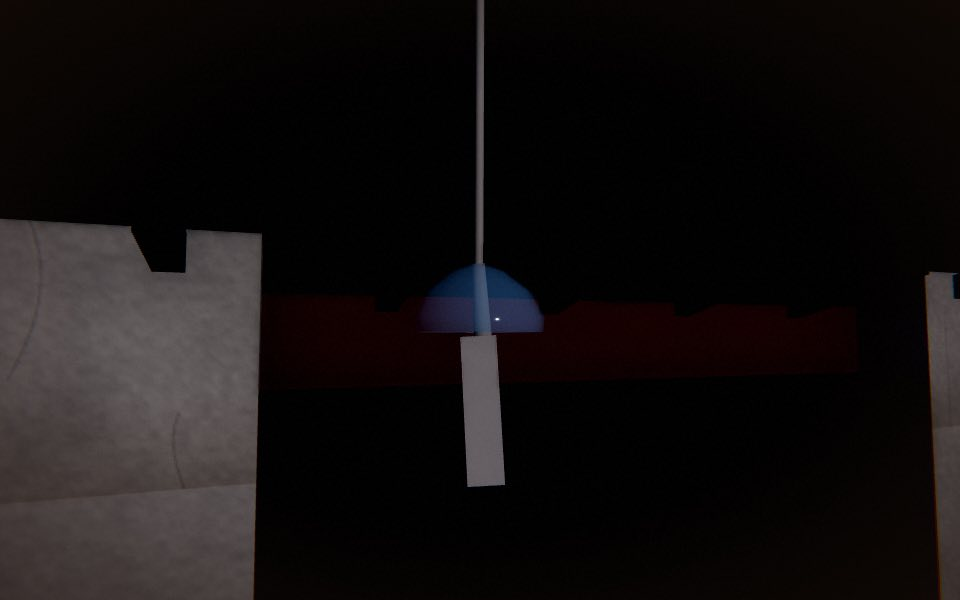
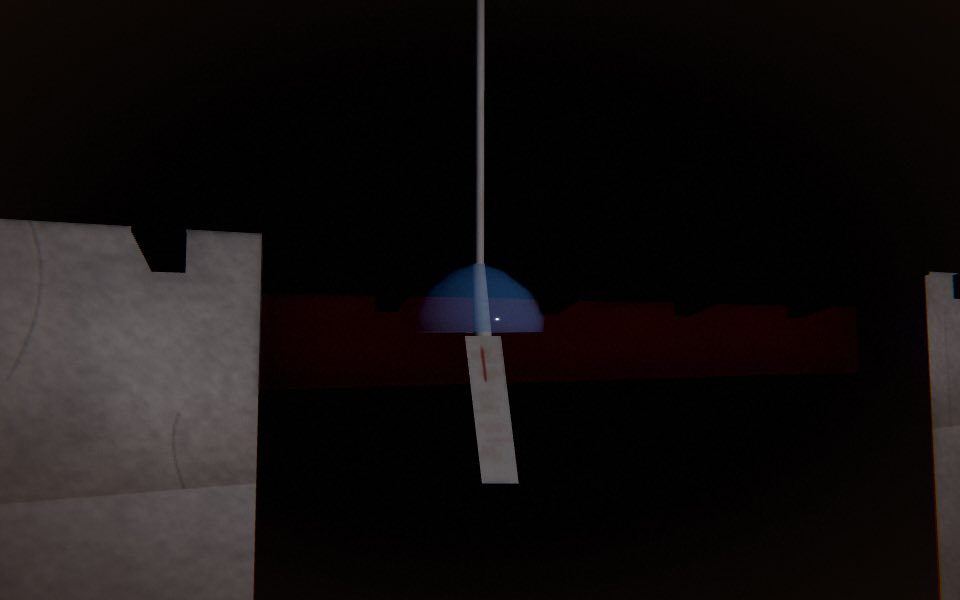
v-garden: 2 live meshes per asset, painted tanzaku, perf numbers

Changed region(s): [[0.4688, 0.57, 0.5625, 0.81]]

diff --git a/src/kit/garden/build.js b/src/kit/garden/build.js
@@ -90,16 +90,25 @@ export function buildShishi(ctx, layout, p) {
   const live = [tube];
   const streamMat = new THREE.MeshStandardMaterial({ color: 0xc4e1de, transparent: true, opacity: 0.65, roughness: 0.12 });
   const priv = [streamMat];
-  let feed = null, pour = null;
+  // one live mesh holds both water segments (feed drip + pour); update() rewrites its vertices
+  let stream = null, base = null, per = 0;
   if (tier !== 'far') {
-    const sg = new THREE.CylinderGeometry(0.008, 0.011, 1, 6);
-    feed = mesh(sg, streamMat, 'stream', false); pour = mesh(sg.clone(), streamMat, 'pour', false);
-    pour.visible = false;
-    g.add(feed, pour); parts.stream = feed; parts.pour = pour; live.push(feed, pour);
+    const one = new THREE.CylinderGeometry(0.008, 0.011, 1, 6).toNonIndexed();
+    per = one.attributes.position.count;
+    stream = mesh(merge([one, one.clone()]), streamMat, 'stream', false);
+    base = stream.geometry.attributes.position.array.slice();
+    g.add(stream); parts.stream = stream; live.push(stream);
   }
-
+  const M4 = new THREE.Matrix4(), Q = new THREE.Quaternion(), Sc = new THREE.Vector3(), Pv = new THREE.Vector3(), Vv = new THREE.Vector3();
+  const place = (k, hi, lo, on) => {
+    const arr = stream.geometry.attributes.position.array;
+    dir.copy(hi).sub(lo); const l = on ? Math.max(1e-4, dir.length()) : 0;
+    Q.setFromUnitVectors(up, l ? dir.multiplyScalar(1 / l) : up);
+    M4.compose(Pv.copy(hi).add(lo).multiplyScalar(0.5), Q, Sc.set(1, l, 1));
+    for (let i = k * per; i < (k + 1) * per; i++) { Vv.set(base[i * 3], base[i * 3 + 1], base[i * 3 + 2]).applyMatrix4(M4); arr[i * 3] = Vv.x; arr[i * 3 + 1] = Vv.y; arr[i * 3 + 2] = Vv.z; }
+    stream.geometry.attributes.position.needsUpdate = true;
+  };
   const up = V3(0, 1, 0), mouth = V3(), top = V3(), bot = V3(), dir = V3();
-  const link = (m, hi, lo) => { dir.copy(hi).sub(lo); const l = Math.max(1e-4, dir.length()); m.position.copy(hi).add(lo).multiplyScalar(0.5); m.quaternion.setFromUnitVectors(up, dir.multiplyScalar(1 / l)); m.scale.y = l; };
   let mine = rocker.rotation.z, ext = false, prev = REST_TILT, cool = 0;
   const inst = {
     group: g, parts, live, onClack: null,
@@ -115,12 +124,11 @@ export function buildShishi(ctx, layout, p) {
       mouth.set(-ARM_MOUTH * Math.sin(th), ARM_MOUTH * Math.cos(th), 0).add(PIVOT);
       cool -= dt;
       if (prev > 0.08 && tilt <= 0.08 && cool <= 0) { cool = 0.6; if (typeof inst.onClack === 'function') inst.onClack(); if (typeof layout.onClack === 'function') layout.onClack(); }
-      if (feed) {
+      if (stream) {
         const under = Math.abs(mouth.x - FEED_TIP.x) < 0.1 && mouth.y < FEED_TIP.y;
-        link(feed, top.copy(FEED_TIP), bot.set(FEED_TIP.x, under ? mouth.y + TUBE_R * 0.6 : WATER_Y, 0));
+        place(0, top.copy(FEED_TIP), bot.set(FEED_TIP.x, under ? mouth.y + TUBE_R * 0.6 : WATER_Y, 0), true);
         const pouring = tilt > 0.4 && tilt >= prev - 1e-4;
-        pour.visible = pouring;
-        if (pouring) link(pour, top.copy(mouth), bot.set(mouth.x, WATER_Y, 0));
+        place(1, top.copy(mouth), bot.set(mouth.x, WATER_Y, 0), pouring);
       }
       prev = tilt;
     },
@@ -128,7 +136,7 @@ export function buildShishi(ctx, layout, p) {
     dispose() { for (const m of priv) m.dispose(); }
   };
   shadows(g, true, true);
-  if (feed) { feed.castShadow = false; pour.castShadow = false; }
+  if (stream) stream.castShadow = false;
   return inst;
 }
 
@@ -136,59 +144,69 @@ export function buildShishi(ctx, layout, p) {
 
 const GLASS = { sky: 0x9ccfe6, amber: 0xe3b86a, smoke: 0x9aa0a6 };
 
+const stripTex = new WeakMap();
+/** Washi with soft brush strokes and fibres, 256px, drawn from a fixed seed. */
+function washiStrokes(km) {
+  if (stripTex.has(km)) return stripTex.get(km);
+  const c = document.createElement('canvas'); c.width = c.height = 256;
+  const x = c.getContext('2d'); x.fillStyle = '#f1e4c6'; x.fillRect(0, 0, 256, 256);
+  let a = 20261113; const r = () => { a = (a + 0x6D2B79F5) >>> 0; let t = a; t = Math.imul(t ^ (t >>> 15), t | 1); t ^= t + Math.imul(t ^ (t >>> 7), t | 61); return ((t ^ (t >>> 14)) >>> 0) / 4294967296; };
+  for (let i = 0; i < 70; i++) { x.strokeStyle = `rgba(${150 + r() * 60 | 0},${120 + r() * 50 | 0},${80 + r() * 40 | 0},${0.05 + r() * 0.1})`; x.lineWidth = 2 + r() * 7; x.beginPath(); const y = r() * 256, x0 = r() * 120; x.moveTo(x0, y); x.lineTo(x0 + 60 + r() * 140, y + (r() - 0.5) * 8); x.stroke(); }
+  for (let i = 0; i < 160; i++) { x.strokeStyle = `rgba(255,252,240,${0.2 + r() * 0.3})`; x.lineWidth = 1; x.beginPath(); const x0 = r() * 256, y0 = r() * 256; x.moveTo(x0, y0); x.lineTo(x0 + (r() - 0.5) * 30, y0 + (r() - 0.5) * 30); x.stroke(); }
+  x.fillStyle = 'rgba(190,60,50,0.55)'; x.fillRect(100, 20, 22, 60); // a vermilion inked mark
+  const tex = new THREE.CanvasTexture(c); tex.colorSpace = THREE.SRGBColorSpace;
+  stripTex.set(km, tex);
+  return tex;
+}
+
 export function buildWindChime(ctx, layout, p) {
   const { tier, kitMaterials: km } = ctx;
   const g = new THREE.Group(), parts = {};
   const radial = seg(tier, 24, 14, 8);
-  const cordMat = km.plain(0xe7d8ba), bronze = km.bronze({ color: 0x8a6a3a });
   const priv = [];
+  const far = tier === 'far';
+  // one painted washi material for cord, clapper and strip: one live draw
+  const paper = km.paper({ color: 0xffffff, map: washiStrokes(km), side: THREE.DoubleSide });
 
-  // hook ring at the hanging point + cord down to the bell
-  const cordGeo = merge([
-    new THREE.TorusGeometry(0.02, 0.006, 5, seg(tier, 12, 8, 6)).translate(0, 0.0, 0),
-    new THREE.CylinderGeometry(0.007, 0.007, 0.5, 5).translate(0, -0.27, 0)
-  ]);
-  const cord = mesh(indexed(cordGeo), cordMat, 'cord', false); g.add(cord); parts.cord = cord;
-
-  // the bell: an open glass bowl, rim at -0.59
+  // bell: open glass bowl, rim at -0.59 (live draw 1)
   const prof = [[0.008, 0], [0.04, -0.012], [0.075, -0.04], [0.092, -0.075], [0.09, -0.095]].map(([x, y]) => new THREE.Vector2(x, y - 0.5));
-  const glass = tier === 'far'
+  const glass = far
     ? new THREE.MeshStandardMaterial({ color: GLASS[p.glass], transparent: true, opacity: 0.55, roughness: 0.15, side: THREE.DoubleSide })
     : new THREE.MeshPhysicalMaterial({ color: GLASS[p.glass], transparent: true, opacity: 0.5, roughness: 0.08, clearcoat: 1, side: THREE.DoubleSide });
   priv.push(glass);
   const bell = mesh(new THREE.LatheGeometry(prof, radial), glass, 'bell'); bell.castShadow = false; g.add(bell); parts.bell = bell;
 
-  // clapper on its own pivot at the bell's crown; its material is the one the game binds
-  const clapMat = new THREE.MeshStandardMaterial({ color: 0xd6cdb8, roughness: 0.9 });
-  priv.push(clapMat);
-  const clapper = mesh(new THREE.CylinderGeometry(0.01, 0.014, 0.1, 6).translate(0, -0.05, 0), clapMat, 'clapper', false);
-  clapper.position.set(0, -0.5, 0); clapper.geometry.translate(0, 0, 0); g.add(clapper); parts.clapper = clapper;
-
-  // tanzaku: a paper strip hung from the clapper
-  if (tier === 'far') { clapper.material = cordMat; clapMat.dispose(); priv.splice(priv.indexOf(clapMat), 1); return farChime(g, parts, [cord, bell, clapper], priv); }
+  // hook ring, cord, clapper and strip as ONE mesh (live draw 2); the clapper and strip flex by vertex
   const tLen = p.tanzaku;
-  const stripGeo = new THREE.PlaneGeometry(0.05, tLen, 1, seg(tier, 8, 4, 1)).translate(0, -tLen / 2, 0);
-  const tanzaku = mesh(stripGeo, km.paper({ color: 0xf3e4c8, side: THREE.DoubleSide }), 'tanzaku', false);
-  tanzaku.position.set(0, -0.6, 0); g.add(tanzaku); parts.tanzaku = tanzaku;
-  const live = [cord, bell, clapper, tanzaku];
-
+  const list = [
+    new THREE.TorusGeometry(0.02, 0.006, 5, seg(tier, 12, 8, 6)),
+    new THREE.CylinderGeometry(0.007, 0.007, 0.5, 5).translate(0, -0.27, 0),
+    new THREE.CylinderGeometry(0.01, 0.014, 0.1, 6).translate(0, -0.55, 0)
+  ];
+  if (!far) list.push(new THREE.PlaneGeometry(0.05, tLen, 1, 8).translate(0, -0.6 - tLen / 2, 0));
+  const geo = indexed(merge(list));
+  const clapper = mesh(geo, paper, 'clapper', false); g.add(clapper); parts.clapper = clapper;
+  const pos = geo.attributes.position, base = pos.array.slice();
   const S = { a: 0, va: 0, s: 0, vs: 0 };
   return {
-    group: g, parts, live,
+    group: g, parts, live: [bell, clapper],
     update(dt, t, env) {
+      if (far) return;
       const wind = env && typeof env.wind === 'number' ? env.wind : 0.2;
       const f = (0.15 + wind) * (0.6 + Math.sin(t * 1.7) * 0.4 + Math.sin(t * 3.9) * 0.3);
       S.va += (f - S.a * 22 - S.va * 2.5) * dt; S.a += S.va * dt;
       S.vs += ((f * 0.7 - S.s * 36 - S.vs * 4) + S.va * 2) * dt; S.s += S.vs * dt;
-      clapper.rotation.z = Math.max(-0.5, Math.min(0.5, S.a * 1.4));
-      tanzaku.rotation.z = Math.max(-0.9, Math.min(0.9, S.s * 1.3 + S.a * 0.5));
-      tanzaku.rotation.x = Math.sin(t * 2.1) * 0.08 * (0.3 + wind);
+      const ca = Math.max(-0.5, Math.min(0.5, S.a * 1.4)), sa = Math.max(-0.9, Math.min(0.9, S.s * 1.3 + S.a * 0.5));
+      const arr = pos.array;
+      for (let i = 0; i < pos.count; i++) {
+        const y = base[i * 3 + 1]; let dx = 0;
+        if (y < -0.5) dx += ca * (-0.5 - y);
+        if (y < -0.6) dx += sa * (-0.6 - y);
+        arr[i * 3] = base[i * 3] + dx;
+      }
+      pos.needsUpdate = true;
     },
     setTier() {},
     dispose() { for (const m of priv) m.dispose(); }
   };
-}
-
-function farChime(g, parts, live, priv) {
-  return { group: g, parts, live, update() {}, setTier() {}, dispose() { for (const m of priv) m.dispose(); } };
 }

diff --git a/docs/fable/status/v-garden.md b/docs/fable/status/v-garden.md
@@ -18,3 +18,11 @@ Model: Claude Sonnet 5.5. Base: fable/integration (4273c90 + kit_test fixes). La
 32 JPGs in `docs/fable/status/v-garden/` (`shishi|wind-chime` × near|far × hour 6,12,18,22 × classic|modular); none byte-identical, all under 150 KB, 960x600. The shishi framing fills a good part of the frame. The chime hangs under a dark eave so it stays small and low-contrast at hour 22 and 6.
 AAA-1: shishi clearly better (hollow stone bowl, diagonal-cut culm, feeder, anvil). Chime: glass bell + paper strip read better than the metal dome but the tanzaku is a plain pale slab. AAA-5: both animate from live state (pour follows mouth; strip/clapper spring driven by env.wind).
 Concern: cat-height (0.35 m) near shot for shishi was blocked by meadow grass, so near cam is 0.6 m.
+
+## Pre-review fix
+- Live meshes now 2 per asset at hero/mid. Shishi: `tube` + one `stream` mesh (feed drip and pour are two segments of one geometry whose vertices update() rewrites; `pour` part removed). Chime: `bell` (glass) + `clapper` (hook ring, cord, clapper and tanzaku merged on one washi material; clapper and strip flex by CPU vertex offsets). Chime parts are now `bell`, `clapper` (bound clapper.material is the shared washi material). Far: shishi 1 live, chime 2.
+- Tanzaku has a procedural 256px canvas washi texture (brush strokes, fibres, a vermilion mark), cached per KitMaterials, no new merged material beyond km.paper.
+- kit_contract_test --family garden: 2 assets, 6 builds, 184 checks, 0 failed. footprint_golden classic: EQUAL. Swap: DIFFERENT only by new asset:* objects and anchors.handles.shishiRocker moved 0.18 m (waiver kept). verify: All checks passed; check_syntax 64 OK.
+- perf_spots (high, 1 boot, 2 rounds), classic -> swap shishi+wind-chime, mean draw calls / mean triangles:
+  street 775 -> 766 / 8,169,602 -> 8,068,428; shrine 447 -> 460 / 7,038,092 -> 7,086,440; river 634 -> 654 / 6,933,773 -> 6,937,930; meadow 728 -> 738 / 7,532,913 -> 7,538,976. Delta is about +0 to +20 draws and up to +50k triangles, within the run-to-run noise (the spots do not frame the props; street's drop is camera/cat variation). Frame ms 8.8-10.7, no regression visible.
+- Re-shot all 8 modular chime pairs and shishi near 12 (both Read): tanzaku now shows paper grain and a red mark; shishi unchanged. No pair is byte-identical; all under 150 KB.

diff --git a/docs/fable/handoff/v-garden.md b/docs/fable/handoff/v-garden.md
@@ -1,7 +1,10 @@
 # v-garden handoff
 - `src/kit/index.js`: regenerate with `node tools/kit_index.mjs` (adds family `garden`).
 - Inventory/catalog: `shishi` -> lab `garden/shishi`, `wind-chime` -> lab `garden/glass` (set `production` adapter ids to the same). Coverage rows unchanged.
-- New part names: asset:shishi/{basin,water,feed,stake,post_l,post_r,axle,anvil,pebbles,rocker,stream,pour,frame (mid/far)}; asset:wind-chime/{cord,bell,clapper,tanzaku}. Bound: rocker (shishiRocker), group '.' (windChime), clapper.material (chimeClapperMat).
+- New part names: asset:shishi/{basin,water,feed,stake,post_l,post_r,axle,anvil,pebbles,rocker,stream,frame (mid/far)}; asset:wind-chime/{bell,clapper}. Bound: rocker (shishiRocker), group '.' (windChime), clapper.material (chimeClapperMat).
 - Waiver: shishiRocker pivot y 0.48 -> 0.66 (anchors.handles.shishiRocker moves 0.18 m).
 - Optional wiring (hot file, countryside.js): after placeAsset('shishi'), set `inst.onClack = () => audio.playClack()` once an audio call exists; none exists in classic today.
 - No helpers to move into craft.js/materials.js. No new materials (km.stone/bamboo/plain/bronze/paper, MAT.water if present; private glass/stream/clapper materials disposed on dispose()).
+
+## Pre-review fix (perf)
+Live meshes: shishi 2 (tube, stream), chime 2 (bell, clapper = cord+clapper+strip). Parts changed: shishi drops `pour`; chime parts are bell, clapper. perf_spots high, classic vs swap, mean draws/tris: street 775->766, shrine 447->460, river 634->654, meadow 728->738; tris within +-100k noise (see status).
